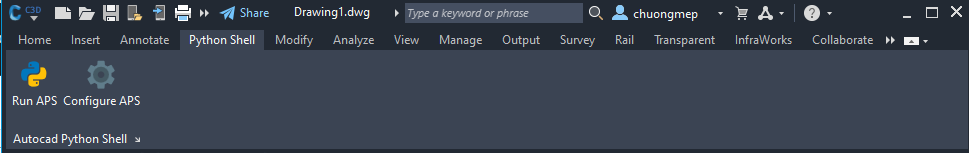
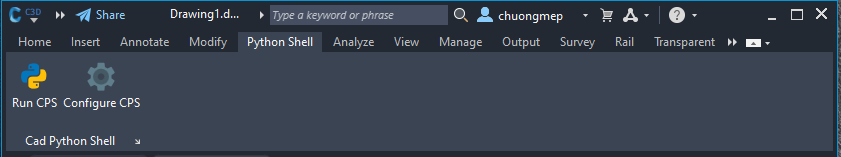
fix spell

diff --git a/CADPythonShell/IronPythonConsoleApp.cs b/CADPythonShell/IronPythonConsoleApp.cs
@@ -44,7 +44,7 @@ namespace CADPythonShell
         {
             //https://forums.autodesk.com/t5/net/create-custom-ribbon-tab-and-buttons-for-autocad-mechanical-2011/td-p/2834343
             RibbonPanelSource rps = new RibbonPanelSource();
-            rps.Title = "Autocad Python Shell";
+            rps.Title = "Cad Python Shell";
             RibbonPanel rp = new RibbonPanel();
             rp.Source = rps;
             //Create a Command Item that the Dialog Launcher can use,
@@ -57,9 +57,9 @@ namespace CADPythonShell
             rb.Orientation = Orientation.Vertical;
             rb.AllowInStatusBar = true;
             rb.Size = RibbonItemSize.Large;
-            rb.Name = "Run APS";
+            rb.Name = "Run CPS";
             rb.ShowText = true;
-            rb.Text = "Run APS";
+            rb.Text = "Run CPS";
             var addinAssembly = typeof(IronPythonConsoleApp).Assembly;
             rb.Image = CADPythonShellApplication.GetEmbeddedPng(addinAssembly, "CADPythonShell.Resources.Python-16.png");
             rb.LargeImage = CADPythonShellApplication.GetEmbeddedPng(addinAssembly, "CADPythonShell.Resources.Python-32.png");
@@ -70,9 +70,9 @@ namespace CADPythonShell
             rb2.Orientation = Orientation.Vertical;
             rb2.AllowInStatusBar = true;
             rb2.Size = RibbonItemSize.Large;
-            rb2.Name = "Configure APS";
+            rb2.Name = "Configure CPS";
             rb2.ShowText = true;
-            rb2.Text = "Configure APS";
+            rb2.Text = "Configure CPS";
             rb2.Image = CADPythonShellApplication.GetEmbeddedPng(addinAssembly, "CADPythonShell.Resources.Settings-16.png");
             rb2.LargeImage = CADPythonShellApplication.GetEmbeddedPng(addinAssembly, "CADPythonShell.Resources.Settings-32.png");
             
